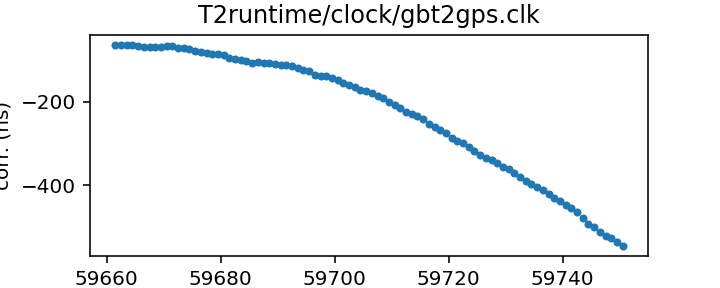
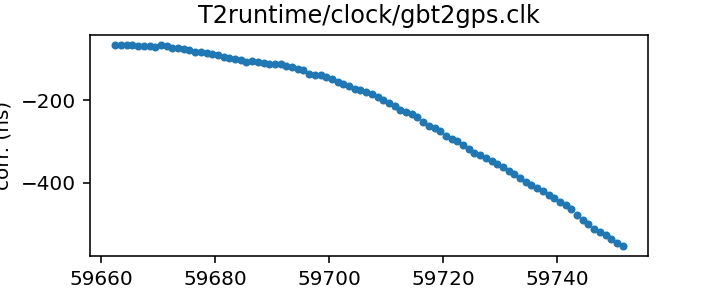
Routine gh-pages update from Github action Wed Jun 22 20:33:16 UTC 2022

diff --git a/status.md b/status.md
@@ -13,13 +13,13 @@ name of each clock file links to a page with more details.
 
 | Name | File | Corrections start | Corrections end | Last check date | Last check result 
 |:--- |:--- | --- | --- | --- |:--- 
-| [GPS to UTC](T2runtime/clock/gps2utc.clk.html) | `T2runtime/clock/gps2utc.clk` | 1993-01-01 MJD 48988.0 | 2022-05-30 MJD 59729.0 | 2022-06-21 | Unchanged 
-| [GPS to UTC (Combined Clock)](T2runtime/clock/gps2utc_cc.clk.html) | `T2runtime/clock/gps2utc_cc.clk` | 1993-01-01 MJD 48988.0 | 2022-05-30 MJD 59729.0 | 2022-06-21 | Unchanged 
-| [GPS to UTC (Corrected)](T2runtime/clock/gps2utc_c0p.clk.html) | `T2runtime/clock/gps2utc_c0p.clk` | 2010-12-29 MJD 55559.0 | 2022-05-30 MJD 59729.0 | 2022-06-21 | Unchanged 
-| [GBT](tempo/clock/time_gbt.dat.html) | `tempo/clock/time_gbt.dat` | 2000-12-31 MJD 51909.5 | 2022-06-20 MJD 59750.5 | 2022-06-21 | Updated 
-| [GBT (TEMPO2 converted from TEMPO)](T2runtime/clock/gbt2gps.clk.html) | `T2runtime/clock/gbt2gps.clk` | 2000-12-31 MJD 51909.5 | 2022-06-20 MJD 59750.5 | 2022-06-21 | Updated 
-| [Leap seconds](tempo/clock/leap.sec.html) | `tempo/clock/leap.sec` | 1972-07-01 MJD 41499.0 | 2017-01-01 MJD 57754.0 | 2022-06-21 | Unchanged 
-| [UT1 table](tempo/clock/ut1.dat.html) | `tempo/clock/ut1.dat` | 1973-01-02 MJD 41684.0 | 2023-06-24 MJD 60119.0 | 2022-06-21 | Updated 
+| [GPS to UTC](T2runtime/clock/gps2utc.clk.html) | `T2runtime/clock/gps2utc.clk` | 1993-01-01 MJD 48988.0 | 2022-05-30 MJD 59729.0 | 2022-06-22 | Unchanged 
+| [GPS to UTC (Combined Clock)](T2runtime/clock/gps2utc_cc.clk.html) | `T2runtime/clock/gps2utc_cc.clk` | 1993-01-01 MJD 48988.0 | 2022-05-30 MJD 59729.0 | 2022-06-22 | Unchanged 
+| [GPS to UTC (Corrected)](T2runtime/clock/gps2utc_c0p.clk.html) | `T2runtime/clock/gps2utc_c0p.clk` | 2010-12-29 MJD 55559.0 | 2022-05-30 MJD 59729.0 | 2022-06-22 | Unchanged 
+| [GBT](tempo/clock/time_gbt.dat.html) | `tempo/clock/time_gbt.dat` | 2000-12-31 MJD 51909.5 | 2022-06-21 MJD 59751.5 | 2022-06-22 | Updated 
+| [GBT (TEMPO2 converted from TEMPO)](T2runtime/clock/gbt2gps.clk.html) | `T2runtime/clock/gbt2gps.clk` | 2000-12-31 MJD 51909.5 | 2022-06-21 MJD 59751.5 | 2022-06-22 | Updated 
+| [Leap seconds](tempo/clock/leap.sec.html) | `tempo/clock/leap.sec` | 1972-07-01 MJD 41499.0 | 2017-01-01 MJD 57754.0 | 2022-06-22 | Unchanged 
+| [UT1 table](tempo/clock/ut1.dat.html) | `tempo/clock/ut1.dat` | 1973-01-02 MJD 41684.0 | 2023-06-24 MJD 60119.0 | 2022-06-22 | Unchanged 
 
 
 
@@ -60,25 +60,25 @@ name of each clock file links to a page with more details.
 | Name | File | Corrections start | Corrections end | Last check date | Last check result 
 |:--- |:--- | --- | --- | --- |:--- 
 | [GPS to UTC (TEMPO2)](T2runtime/clock/gps2utc_tempo2.clk.html) | `T2runtime/clock/gps2utc_tempo2.clk` | 1996-03-27 MJD 50169.0 | 2020-10-27 MJD 59149.0 | 2022-06-16 | Unchanged 
-| [GBT (TEMPO2)](T2runtime/clock/gbt2gps_tempo2.clk.html) | `T2runtime/clock/gbt2gps_tempo2.clk` | 2000-12-31 MJD 51909.5 | 2020-02-25 MJD 58904.5 | 2022-06-15 | Unchanged 
+| [GBT (TEMPO2)](T2runtime/clock/gbt2gps_tempo2.clk.html) | `T2runtime/clock/gbt2gps_tempo2.clk` | 2000-12-31 MJD 51909.5 | 2020-02-25 MJD 58904.5 | 2022-06-22 | Unchanged 
 | [Jodrell Bank](tempo/clock/time_jb.dat.html) | `tempo/clock/time_jb.dat` | 2006-10-13 MJD 54021.4 | 2019-05-13 MJD 58616.2 | 2022-06-16 | Unchanged 
-| [Jodrell Bank (TEMPO2)](T2runtime/clock/jb2gps.clk.html) | `T2runtime/clock/jb2gps.clk` | 2006-10-13 MJD 54021.4 | 2021-11-03 MJD 59521.0 | 2022-06-15 | Unchanged 
+| [Jodrell Bank (TEMPO2)](T2runtime/clock/jb2gps.clk.html) | `T2runtime/clock/jb2gps.clk` | 2006-10-13 MJD 54021.4 | 2021-11-03 MJD 59521.0 | 2022-06-22 | Unchanged 
 | [VLA](tempo/clock/time_vla.dat.html) | `tempo/clock/time_vla.dat` | 1990-10-27 MJD 48191.2 | 2021-03-07 MJD 59280.5 | 2022-06-16 | Unchanged 
-| [VLA (TEMPO2)](T2runtime/clock/vla2gps.clk.html) | `T2runtime/clock/vla2gps.clk` | 2015-02-01 MJD 57054.6 | 2021-03-07 MJD 59280.5 | 2022-06-15 | Unchanged 
-| [VLA to NIST](T2runtime/clock/vla2nist.clk.html) | `T2runtime/clock/vla2nist.clk` | 1990-10-27 MJD 48191.2 | 1993-11-13 MJD 49304.0 | 2022-06-15 | Unchanged 
+| [VLA (TEMPO2)](T2runtime/clock/vla2gps.clk.html) | `T2runtime/clock/vla2gps.clk` | 2015-02-01 MJD 57054.6 | 2021-03-07 MJD 59280.5 | 2022-06-22 | Unchanged 
+| [VLA to NIST](T2runtime/clock/vla2nist.clk.html) | `T2runtime/clock/vla2nist.clk` | 1990-10-27 MJD 48191.2 | 1993-11-13 MJD 49304.0 | 2022-06-22 | Unchanged 
 | [FAST](tempo/clock/time_fast.dat.html) | `tempo/clock/time_fast.dat` | 2017-07-26 MJD 57960.4 | 2019-09-18 MJD 58744.0 | 2022-06-16 | Unchanged 
 | [WSRT](T2runtime/clock/wsrt2gps.clk.html) | `T2runtime/clock/wsrt2gps.clk` | 1999-01-01 MJD 51179.5 | 2015-06-29 MJD 57202.1 | 2022-06-16 | Unchanged 
 | [WSRT (TEMPO)](tempo/clock/time_wsrt.dat.html) | `tempo/clock/time_wsrt.dat` | 1987-07-24 MJD 47000.0 | 2007-12-24 MJD 54458.0 | 2022-06-16 | **Validation failed** 
-| [Parkes](T2runtime/clock/pks2gps.clk.html) | `T2runtime/clock/pks2gps.clk` | 1858-11-17 MJD 0.0 | 2019-07-31 MJD 58695.4 | 2022-06-15 | Unchanged 
+| [Parkes](T2runtime/clock/pks2gps.clk.html) | `T2runtime/clock/pks2gps.clk` | 1858-11-17 MJD 0.0 | 2019-07-31 MJD 58695.4 | 2022-06-22 | Unchanged 
 | [Parkes (TEMPO)](tempo/clock/time_pks.dat.html) | `tempo/clock/time_pks.dat` | 1979-05-07 MJD 44000.0 | 2011-07-03 MJD 55745.8 | 2022-06-16 | **Validation failed** 
-| [SRT](T2runtime/clock/srt2gps.clk.html) | `T2runtime/clock/srt2gps.clk` | 2013-03-20 MJD 56371.0 | 2019-12-11 MJD 58828.0 | 2022-06-15 | Unchanged 
-| [Effelsberg](T2runtime/clock/eff2gps.clk.html) | `T2runtime/clock/eff2gps.clk` | 1993-11-29 MJD 49320.0 | 2015-06-22 MJD 57195.5 | 2022-06-15 | Unchanged 
-| [Effelsberg Asterix/PSRix](T2runtime/clock/effix2gps.clk.html) | `T2runtime/clock/effix2gps.clk` | 2011-01-01 MJD 55562.5 | 2021-03-21 MJD 59294.5 | 2022-06-15 | Unchanged 
+| [SRT](T2runtime/clock/srt2gps.clk.html) | `T2runtime/clock/srt2gps.clk` | 2013-03-20 MJD 56371.0 | 2019-12-11 MJD 58828.0 | 2022-06-22 | Unchanged 
+| [Effelsberg](T2runtime/clock/eff2gps.clk.html) | `T2runtime/clock/eff2gps.clk` | 1993-11-29 MJD 49320.0 | 2015-06-22 MJD 57195.5 | 2022-06-22 | Unchanged 
+| [Effelsberg Asterix/PSRix](T2runtime/clock/effix2gps.clk.html) | `T2runtime/clock/effix2gps.clk` | 2011-01-01 MJD 55562.5 | 2021-03-21 MJD 59294.5 | 2022-06-22 | Unchanged 
 | [NUPPI](tempo/clock/time_nuppi.dat.html) | `tempo/clock/time_nuppi.dat` | 2005-03-07 MJD 53436.0 | 2015-11-08 MJD 57334.6 | 2022-06-16 | Unchanged 
-| [Meerkat](T2runtime/clock/mk2utc.clk.html) | `T2runtime/clock/mk2utc.clk` | 2019-01-01 MJD 58484.0 | 2021-02-22 MJD 59268.0 | 2022-06-15 | Unchanged 
-| [MOST](T2runtime/clock/mo2gps.clk.html) | `T2runtime/clock/mo2gps.clk` | 2003-12-27 MJD 53000.0 | 2018-09-06 MJD 58367.0 | 2022-06-15 | Unchanged 
-| [Nancay to obspm](T2runtime/clock/ncyobs2obspm.clk.html) | `T2runtime/clock/ncyobs2obspm.clk` | 1988-05-18 MJD 47299.6 | 2021-11-01 MJD 59519.6 | 2022-06-15 | Unchanged 
-| [obspm](T2runtime/clock/obspm2gps.clk.html) | `T2runtime/clock/obspm2gps.clk` | 2003-12-01 MJD 52974.0 | 2021-08-28 MJD 59454.0 | 2022-06-15 | Unchanged 
+| [Meerkat](T2runtime/clock/mk2utc.clk.html) | `T2runtime/clock/mk2utc.clk` | 2019-01-01 MJD 58484.0 | 2021-02-22 MJD 59268.0 | 2022-06-22 | Unchanged 
+| [MOST](T2runtime/clock/mo2gps.clk.html) | `T2runtime/clock/mo2gps.clk` | 2003-12-27 MJD 53000.0 | 2018-09-06 MJD 58367.0 | 2022-06-22 | Unchanged 
+| [Nancay to obspm](T2runtime/clock/ncyobs2obspm.clk.html) | `T2runtime/clock/ncyobs2obspm.clk` | 1988-05-18 MJD 47299.6 | 2021-11-01 MJD 59519.6 | 2022-06-22 | Unchanged 
+| [obspm](T2runtime/clock/obspm2gps.clk.html) | `T2runtime/clock/obspm2gps.clk` | 2003-12-01 MJD 52974.0 | 2021-08-28 MJD 59454.0 | 2022-06-22 | Unchanged 
 
 
 ### Further information:

diff --git a/T2runtime/clock/gbt2gps.clk.md b/T2runtime/clock/gbt2gps.clk.md
@@ -23,14 +23,13 @@ If questions arise about the conversion, contact Anne Archibald
 | Format | tempo2 |
 | Bogus last correction | False |
 | Clock file start | 2000-12-31 MJD 51909.5 |
-| Clock file end | 2022-06-20 MJD 59750.5 |
+| Clock file end | 2022-06-21 MJD 59751.5 |
 | Update interval (days) | 1 |
-| Last update attempt | 2022-06-21 |
+| Last update attempt | 2022-06-22 |
 | Last update result | Updated |
 
 Log entries from the last few update attempts:
 ```
-2022-06-13 13:42:09.674 - Updated
 2022-06-15 16:45:24.942 - No way to download: 'T2runtime/clock/gbt2gps.clk'
 2022-06-15 16:45:25.024 - Updated
 2022-06-16 18:26:16.943 - No way to download: 'T2runtime/clock/gbt2gps.clk'
@@ -40,12 +39,13 @@ Log entries from the last few update attempts:
 2022-06-19 20:32:41.912 - Updated
 2022-06-20 20:34:08.816 - Updated
 2022-06-21 20:33:33.404 - Updated
+2022-06-22 20:32:52.827 - Updated
 ```
 [Full log](https://raw.githubusercontent.com/ipta/pulsar-clock-corrections/main/log/T2runtime/clock/gbt2gps.clk.log)
 
 Leading comments from clock file:
 
-    # This file was automatically converted from tempo/clock/time_gbt.dat on 2022-06-21 20:33:33.333
+    # This file was automatically converted from tempo/clock/time_gbt.dat on 2022-06-22 20:32:52.755
 
 
 

diff --git a/T2runtime/clock/gps2utc_c0p.clk.md b/T2runtime/clock/gps2utc_c0p.clk.md
@@ -30,12 +30,11 @@ about the BIPM's published corrections, contact <tai@bipm.org>.
 | Clock file start | 2010-12-29 MJD 55559.0 |
 | Clock file end | 2022-05-30 MJD 59729.0 |
 | Update interval (days) | 1 |
-| Last update attempt | 2022-06-21 |
+| Last update attempt | 2022-06-22 |
 | Last update result | Unchanged |
 
 Log entries from the last few update attempts:
 ```
-2022-06-13 13:42:03.587 - Unchanged
 2022-06-15 16:45:22.259 - No way to download: 'T2runtime/clock/gps2utc_c0p.clk'
 2022-06-15 16:45:22.287 - Updated
 2022-06-16 18:26:15.138 - No way to download: 'T2runtime/clock/gps2utc_c0p.clk'
@@ -45,6 +44,7 @@ Log entries from the last few update attempts:
 2022-06-19 20:32:41.146 - Unchanged
 2022-06-20 20:34:08.223 - Unchanged
 2022-06-21 20:33:32.634 - Unchanged
+2022-06-22 20:32:52.244 - Unchanged
 ```
 [Full log](https://raw.githubusercontent.com/ipta/pulsar-clock-corrections/main/log/T2runtime/clock/gps2utc_c0p.clk.log)
 

diff --git a/T2runtime/clock/gps2utc_cc.clk.md b/T2runtime/clock/gps2utc_cc.clk.md
@@ -29,12 +29,11 @@ about the BIPM's published corrections, contact <tai@bipm.org>.
 | Clock file start | 1993-01-01 MJD 48988.0 |
 | Clock file end | 2022-05-30 MJD 59729.0 |
 | Update interval (days) | 1 |
-| Last update attempt | 2022-06-21 |
+| Last update attempt | 2022-06-22 |
 | Last update result | Unchanged |
 
 Log entries from the last few update attempts:
 ```
-2022-06-13 13:42:03.560 - Unchanged
 2022-06-15 16:45:22.187 - No way to download: 'T2runtime/clock/gps2utc_cc.clk'
 2022-06-15 16:45:22.258 - Updated
 2022-06-16 18:26:15.106 - No way to download: 'T2runtime/clock/gps2utc_cc.clk'
@@ -44,6 +43,7 @@ Log entries from the last few update attempts:
 2022-06-19 20:32:41.127 - Unchanged
 2022-06-20 20:34:08.207 - Unchanged
 2022-06-21 20:33:32.615 - Unchanged
+2022-06-22 20:32:52.225 - Unchanged
 ```
 [Full log](https://raw.githubusercontent.com/ipta/pulsar-clock-corrections/main/log/T2runtime/clock/gps2utc_cc.clk.log)
 

diff --git a/T2runtime/clock/gps2utc.clk.md b/T2runtime/clock/gps2utc.clk.md
@@ -32,12 +32,11 @@ about the BIPM's published corrections, contact <tai@bipm.org>.
 | Clock file start | 1993-01-01 MJD 48988.0 |
 | Clock file end | 2022-05-30 MJD 59729.0 |
 | Update interval (days) | 1 |
-| Last update attempt | 2022-06-21 |
+| Last update attempt | 2022-06-22 |
 | Last update result | Unchanged |
 
 Log entries from the last few update attempts:
 ```
-2022-06-13 13:42:03.523 - Unchanged
 2022-06-15 16:45:10.795 - No way to download: 'T2runtime/clock/gps2utc.clk'
 2022-06-15 16:45:22.185 - Updated
 2022-06-16 18:26:15.027 - No way to download: 'T2runtime/clock/gps2utc.clk'
@@ -47,6 +46,7 @@ Log entries from the last few update attempts:
 2022-06-19 20:32:41.086 - Unchanged
 2022-06-20 20:34:08.171 - Unchanged
 2022-06-21 20:33:32.575 - Unchanged
+2022-06-22 20:32:52.183 - Unchanged
 ```
 [Full log](https://raw.githubusercontent.com/ipta/pulsar-clock-corrections/main/log/T2runtime/clock/gps2utc.clk.log)
 

diff --git a/tempo/clock/time_gbt.dat.md b/tempo/clock/time_gbt.dat.md
@@ -18,14 +18,13 @@ If questions arise, contact Ryan S. Lynch <rlynch@nrao.edu>.
 | Format | tempo |
 | Bogus last correction | False |
 | Clock file start | 2000-12-31 MJD 51909.5 |
-| Clock file end | 2022-06-20 MJD 59750.5 |
+| Clock file end | 2022-06-21 MJD 59751.5 |
 | Update interval (days) | 1 |
-| Last update attempt | 2022-06-21 |
+| Last update attempt | 2022-06-22 |
 | Last update result | Updated |
 
 Log entries from the last few update attempts:
 ```
-2022-06-07 13:34:26.629 - Updated
 2022-06-08 17:10:52.665 - Updated
 2022-06-13 13:42:09.608 - Updated
 2022-06-15 16:45:23.965 - Updated
@@ -35,6 +34,7 @@ Log entries from the last few update attempts:
 2022-06-19 20:32:41.838 - Updated
 2022-06-20 20:34:08.753 - Updated
 2022-06-21 20:33:33.331 - Updated
+2022-06-22 20:32:52.536 - Updated
 ```
 [Full log](https://raw.githubusercontent.com/ipta/pulsar-clock-corrections/main/log/tempo/clock/time_gbt.dat.log)
 

diff --git a/tempo/clock/ut1.dat.md b/tempo/clock/ut1.dat.md
@@ -30,12 +30,11 @@ If there are any questions, contact Anne Archibald
 | File start | 1973-01-02 MJD 41684.0 |
 | File end | 2023-06-24 MJD 60119.0 |
 | Update interval (days) | 0 |
-| Last update attempt | 2022-06-21 |
-| Last update result | Updated |
+| Last update attempt | 2022-06-22 |
+| Last update result | Unchanged |
 
 Log entries from the last few update attempts:
 ```
-2022-06-20 22:09:01.968 - Updated
 2022-06-20 22:10:42.058 - Unchanged
 2022-06-20 22:11:52.979 - Unchanged
 2022-06-20 22:14:08.129 - Unchanged
@@ -45,5 +44,6 @@ Log entries from the last few update attempts:
 2022-06-20 23:00:56.286 - Unchanged
 2022-06-20 23:01:14.223 - Unchanged
 2022-06-21 20:33:42.967 - Updated
+2022-06-22 20:33:03.220 - Unchanged
 ```
 [Full log](https://raw.githubusercontent.com/ipta/pulsar-clock-corrections/main/log/tempo/clock/ut1.dat.log)

diff --git a/tempo/clock/leap.sec.md b/tempo/clock/leap.sec.md
@@ -21,12 +21,11 @@ If there are any questions, contact Anne Archibald
 | File start | 1972-07-01 MJD 41499.0 |
 | File end | 2017-01-01 MJD 57754.0 |
 | Update interval (days) | 0 |
-| Last update attempt | 2022-06-21 |
+| Last update attempt | 2022-06-22 |
 | Last update result | Unchanged |
 
 Log entries from the last few update attempts:
 ```
-2022-06-20 22:09:01.394 - Unchanged
 2022-06-20 22:10:41.466 - Unchanged
 2022-06-20 22:11:52.393 - Unchanged
 2022-06-20 22:14:07.456 - Unchanged
@@ -36,5 +35,6 @@ Log entries from the last few update attempts:
 2022-06-20 23:00:55.478 - Unchanged
 2022-06-20 23:01:13.459 - Unchanged
 2022-06-21 20:33:33.432 - Unchanged
+2022-06-22 20:32:55.313 - Unchanged
 ```
 [Full log](https://raw.githubusercontent.com/ipta/pulsar-clock-corrections/main/log/tempo/clock/leap.sec.log)

diff --git a/T2runtime/clock/gbt2gps_tempo2.clk.md b/T2runtime/clock/gbt2gps_tempo2.clk.md
@@ -16,7 +16,7 @@ This file is pulled from the TEMPO2 repository and may not be fully up-to-date.
 | Clock file start | 2000-12-31 MJD 51909.5 |
 | Clock file end | 2020-02-25 MJD 58904.5 |
 | Update interval (days) | 7 |
-| Last update attempt | 2022-06-15 |
+| Last update attempt | 2022-06-22 |
 | Last update result | Unchanged |
 
 Log entries from the last few update attempts:
@@ -24,6 +24,7 @@ Log entries from the last few update attempts:
 2022-05-26 08:50:57.933 - Unchanged
 2022-06-07 15:28:20.238 - Unchanged
 2022-06-15 16:45:24.935 - Unchanged
+2022-06-22 20:32:52.754 - Unchanged
 ```
 [Full log](https://raw.githubusercontent.com/ipta/pulsar-clock-corrections/main/log/T2runtime/clock/gbt2gps_tempo2.clk.log)
 

diff --git a/T2runtime/clock/effix2gps.clk.md b/T2runtime/clock/effix2gps.clk.md
@@ -16,7 +16,7 @@ This file is pulled from the TEMPO2 repository and may not be fully up-to-date.
 | Clock file start | 2011-01-01 MJD 55562.5 |
 | Clock file end | 2021-03-21 MJD 59294.5 |
 | Update interval (days) | 7 |
-| Last update attempt | 2022-06-15 |
+| Last update attempt | 2022-06-22 |
 | Last update result | Unchanged |
 
 Log entries from the last few update attempts:
@@ -24,6 +24,7 @@ Log entries from the last few update attempts:
 2022-05-26 20:40:09.004 - Unchanged
 2022-06-07 13:34:32.473 - Unchanged
 2022-06-15 16:45:32.571 - Unchanged
+2022-06-22 20:32:54.392 - Unchanged
 ```
 [Full log](https://raw.githubusercontent.com/ipta/pulsar-clock-corrections/main/log/T2runtime/clock/effix2gps.clk.log)
 

diff --git a/T2runtime/clock/vla2nist.clk.md b/T2runtime/clock/vla2nist.clk.md
@@ -16,7 +16,7 @@ This file is pulled from the TEMPO2 repository and may not be fully up-to-date.
 | Clock file start | 1990-10-27 MJD 48191.2 |
 | Clock file end | 1993-11-13 MJD 49304.0 |
 | Update interval (days) | 7 |
-| Last update attempt | 2022-06-15 |
+| Last update attempt | 2022-06-22 |
 | Last update result | Unchanged |
 
 Log entries from the last few update attempts:
@@ -24,6 +24,7 @@ Log entries from the last few update attempts:
 2022-05-26 20:40:05.753 - Unchanged
 2022-06-07 13:34:29.524 - Unchanged
 2022-06-15 16:45:28.575 - Unchanged
+2022-06-22 20:32:53.609 - Unchanged
 ```
 [Full log](https://raw.githubusercontent.com/ipta/pulsar-clock-corrections/main/log/T2runtime/clock/vla2nist.clk.log)
 

diff --git a/T2runtime/clock/srt2gps.clk.md b/T2runtime/clock/srt2gps.clk.md
@@ -16,7 +16,7 @@ This file is pulled from the TEMPO2 repository and may not be fully up-to-date.
 | Clock file start | 2013-03-20 MJD 56371.0 |
 | Clock file end | 2019-12-11 MJD 58828.0 |
 | Update interval (days) | 7 |
-| Last update attempt | 2022-06-15 |
+| Last update attempt | 2022-06-22 |
 | Last update result | Unchanged |
 
 Log entries from the last few update attempts:
@@ -24,6 +24,7 @@ Log entries from the last few update attempts:
 2022-05-26 20:40:07.592 - Unchanged
 2022-06-07 13:34:31.198 - Unchanged
 2022-06-15 16:45:31.139 - Unchanged
+2022-06-22 20:32:54.084 - Unchanged
 ```
 [Full log](https://raw.githubusercontent.com/ipta/pulsar-clock-corrections/main/log/T2runtime/clock/srt2gps.clk.log)
 
